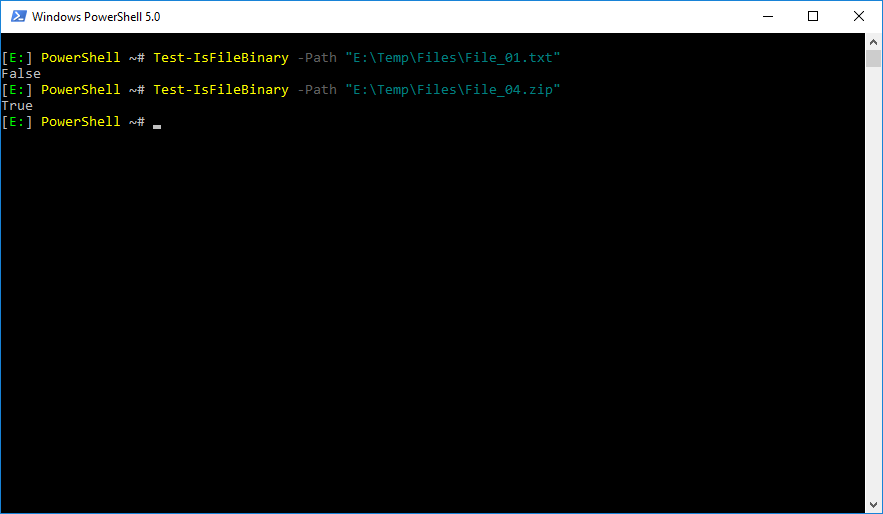
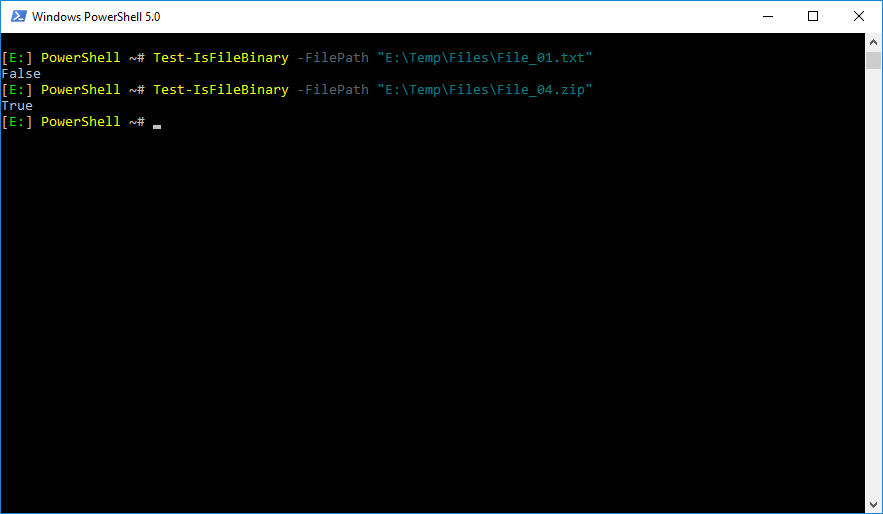
Fixed an error while formatting $ByteArray

Changed region(s): [[0.3364, 0.1556, 0.6727, 0.1868], [0.3364, 0.0934, 0.6727, 0.1245]]

diff --git a/Documentation/Test-IsFileBinary.README.md b/Documentation/Test-IsFileBinary.README.md
@@ -10,18 +10,16 @@ Test if a file is binary like .exe or .zip.
 
 ![Screenshot](Images/Test-IsFileBinary.png?raw=true "Test-IsFileBinary")
 
-I found this code snippet on Stackoverflow: https://stackoverflow.com/questions/1077634/powershell-search-script-that-ignores-binary-files
-
 ## Syntax
 
 ```powershell
-Test-IsFileBinary [-Path] <String> [<CommonParameters>]
+Test-IsFileBinary [-FilePath] <String> [<CommonParameters>]
 ``` 
 
 ## Example 1
 
 ```powershell
-PS> Test-IsFileBinary -Path "E:\Temp\Files\File_04.zip"
+PS> Test-IsFileBinary -FilePath "E:\Temp\Files\File_04.zip"
 
 True
 ```
@@ -29,7 +27,12 @@ True
 ## Example 2
 
 ```powershell
-PS> Test-IsFileBinary -Path "E:\Temp\Files\File_01.txt"
+PS> Test-IsFileBinary -FilePath "E:\Temp\Files\File_01.txt"
 
 False
 ```
+
+## Further information
+
+* [How to identify the file content as ascii or binary - Stackoverflow](https://stackoverflow.com/questions/277521/how-to-identify-the-file-content-as-ascii-or-binary/277568#277568)
+* [Search script that ignores binary files - Stackoverflow](https://stackoverflow.com/questions/1077634/powershell-search-script-that-ignores-binary-files/1080976#1080976)
